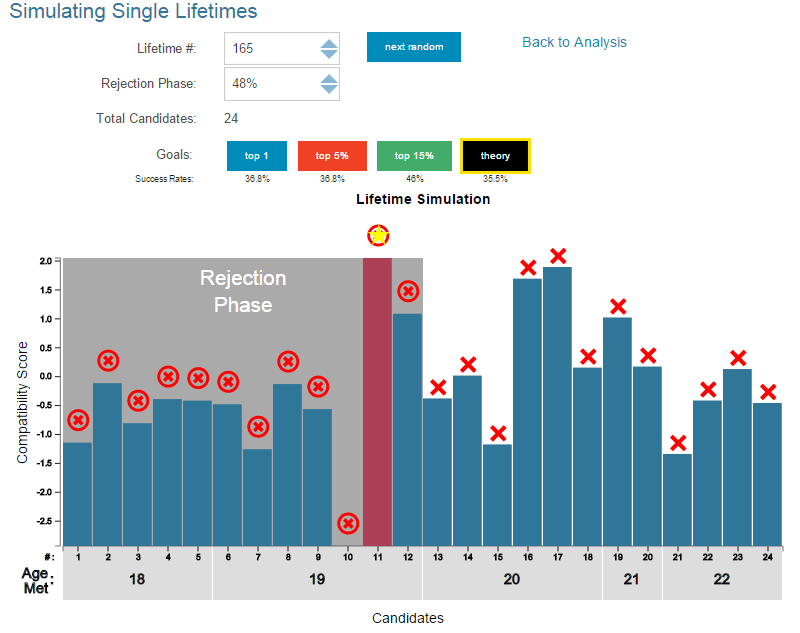
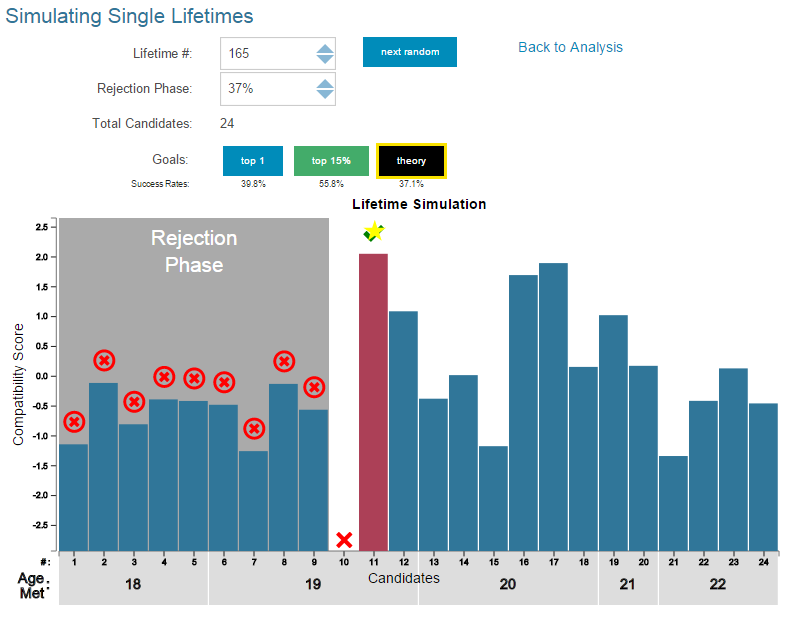
Added some doc images.

diff --git a/interactive/static/js/tour.js b/interactive/static/js/tour.js
@@ -206,9 +206,7 @@ var app = app || {};
           content: "Hopefully this brief introduction helped you to understand how Optimal Stopping Theory works for this particular problem.<br />" +
           "Now that you know where things are, you can tailor this experiment to your personal scenario and planning.<br />" +
           'Click on "Generate Different Dataset" link and create your own experiment. Here are some ideas:' +
-          '<ul><li>You may notice that our "Top 1" and "Top 5%" results are exactly the same.' +
-          " That was caused by the lacking number of people met per year, that made 5% of all candidates less than 1 person. You can try higher " +
-          " numbers here.</li>"+
+          '<ul>'+
           "<li>What's your dating strategy? How many people are you planning / likely to meet each year? You can adjust that to see how it affects " +
           "your success rate.</li>"+
           "<li>Try out with a larger number of lifetimes, say 2,000. See how that will make the pattern more prominent.</li>" +

diff --git a/interactive/static/js/data.js b/interactive/static/js/data.js
@@ -225,14 +225,6 @@ var app = app || {};
         ]
       },
       {
-        id: 1,
-        name: 'top-5%',
-        active: true,
-        color_id: 2,
-        destructible: true,
-        data: []
-      },
-      {
         id: 2,
         name: 'top-15%',
         active: true,
@@ -315,11 +307,6 @@ var app = app || {};
          * @type {boolean}
          * @memberOf app.data.currentDetail.goals.goal
          */
-        active: false
-      },
-      {
-        goal_id: 1,
-        success_rate: .40,
         active: false
       },
       {

diff --git a/interactive/static/js/detailViz.js b/interactive/static/js/detailViz.js
@@ -16,7 +16,7 @@ var app = app || {};
     width: 800,
     height: 400,
     marginLeft: 60,
-    marginTop: 80,
+    marginTop: 30,
     x2Height: 60,
     bottomOffset: 20,
     rightOffset: 20,
@@ -64,6 +64,7 @@ var app = app || {};
 
     self.xExtent = [1, self.data.length];
     self.yExtent = d3.extent(self.data, function(d) {return d['candidate_score'];});
+    self.yExtent[1] = self.yExtent[1]+0.6;
 
     var scales = app.vizHelpers.drawAxes(self.chartSelector, {
       xExtent: self.xExtent,
